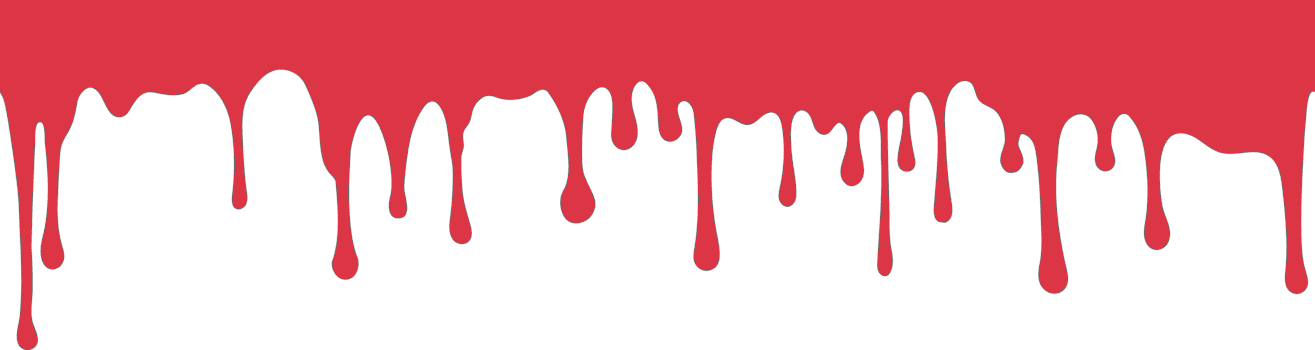
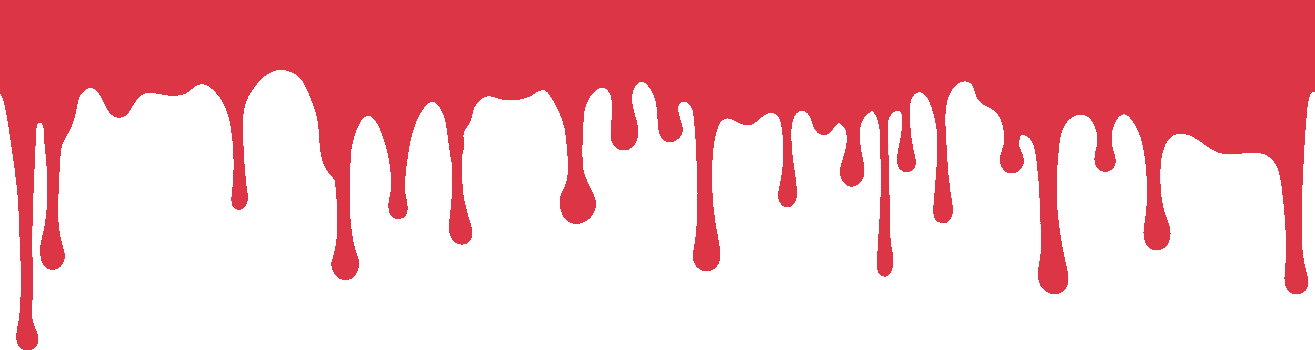
#

diff --git a/services.html b/services.html
@@ -23,6 +23,7 @@
                     <li class="nav-item"><a class="nav-link" href="index.html">Home</a></li>
                     <li class="nav-item"><a class="nav-link active" href="services.html">Movies</a></li>
                     <li class="nav-item"><a class="nav-link" href="aboutus.html">About Us</a></li>
+                    <li class="nav-item"><a class="nav-link" href="contact.html">Contact</a></li>
                 </ul>
             </div>
         </div>
@@ -65,7 +66,7 @@
 
                     <div class="col-12 col-sm-6">
                         <div class="card mb-4 w-100">
-                            <img src="images/movie6.png" class="card-img-top" alt="Longlegs" style="height: 600px;">
+                            <img src="images/movie6.png" class="card-img-top" alt="Longlegs" style="height: 800px">
                             <div class="card-body d-flex flex-column">
                                 <h5 class="card-title">M3GAN</h5>
                                 <p class="card-text flex-grow-1">A chilling, atmospheric thriller where an FBI agent
@@ -81,7 +82,7 @@
 
                     <div class="col-12 col-sm-6">
                         <div class="card mb-4 w-100">
-                            <img src="images/movie5.png" class="card-img-top" alt="Longlegs" style="height: 600px;">
+                            <img src="images/movie5.png" class="card-img-top" alt="Longlegs" style="height: 800px;">
                             <div class="card-body d-flex flex-column">
                                 <h5 class="card-title">Hereditary</h5>
                                 <p class="card-text flex-grow-1">Michael Myers escapes confinement to face Laurie Strode
@@ -97,7 +98,7 @@
 
                     <div class="col-12 col-sm-6">
                         <div class="card mb-4 w-100">
-                            <img src="images/image3.png" class="card-img-top" alt="Longlegs" style="height: 600px;">
+                            <img src="images/image3.png" class="card-img-top" alt="Longlegs" style="height: 800px;">
                             <div class="card-body d-flex flex-column">
                                 <h5 class="card-title">Scream VI</h5>
                                 <p class="card-text flex-grow-1">In 17th-century New England, a banished Puritan family
@@ -113,7 +114,7 @@
 
                     <div class="col-12 col-sm-6">
                         <div class="card mb-4 w-100">
-                            <img src="images/movie4.png" class="card-img-top" alt="Longlegs" style="height: 600px;">
+                            <img src="images/movie4.png" class="card-img-top" alt="Longlegs" style="height: 800px;">
                             <div class="card-body d-flex flex-column">
                                 <h5 class="card-title">Project Hail Mary</h5>
                                 <p class="card-text flex-grow-1">A lone astronaut awakens on a spaceship with amnesia,
@@ -128,7 +129,7 @@
                     </div>
                     <div class="col-12 col-sm-6">
                         <div class="card mb-4 w-100">
-                            <img src="images/movie1.png" class="card-img-top" alt="Longlegs" style="height: 600px;">
+                            <img src="images/movie1.png" class="card-img-top" alt="Longlegs" style="height: 800px;">
                             <div class="card-body d-flex flex-column">
                                 <h5 class="card-title">Longlegs</h5>
                                 <p class="card-text flex-grow-1">A chilling, atmospheric thriller where an FBI agent
@@ -144,7 +145,7 @@
 
                     <div class="col-12 col-sm-6">
                         <div class="card mb-4 w-100">
-                            <img src="images/movie3.png" class="card-img-top" alt="Longlegs" style="height: 600px;">
+                            <img src="images/movie3.png" class="card-img-top" alt="Longlegs" style="height: 800px;">
                             <div class="card-body d-flex flex-column">
                                 <h5 class="card-title">Halloween (2018)</h5>
                                 <p class="card-text flex-grow-1">Michael Myers escapes confinement to face Laurie Strode
@@ -160,7 +161,7 @@
 
                     <div class="col-12 col-sm-6">
                         <div class="card mb-4 w-100">
-                            <img src="images/movie2.png" class="card-img-top" alt="Longlegs" style="height: 600px;">
+                            <img src="images/movie2.png" class="card-img-top" alt="Longlegs" style="height: 800px;">
                             <div class="card-body d-flex flex-column">
                                 <h5 class="card-title">The Witch</h5>
                                 <p class="card-text flex-grow-1">In 17th-century New England, a banished Puritan family
@@ -176,7 +177,7 @@
 
                     <div class="col-12 col-sm-6">
                         <div class="card mb-4 w-100">
-                            <img src="images/movie4.png" class="card-img-top" alt="Longlegs" style="height: 600px;">
+                            <img src="images/movie4.png" class="card-img-top" alt="Longlegs" style="height: 800px;">
                             <div class="card-body d-flex flex-column">
                                 <h5 class="card-title">Project Hail Mary</h5>
                                 <p class="card-text flex-grow-1">A lone astronaut awakens on a spaceship with amnesia,
@@ -191,7 +192,7 @@
                     </div>
                     <div class="col-12 col-sm-6">
                         <div class="card mb-4 w-100">
-                            <img src="images/movie1.png" class="card-img-top" alt="Longlegs" style="height: 600px;">
+                            <img src="images/movie1.png" class="card-img-top" alt="Longlegs" style="height: 800px;">
                             <div class="card-body d-flex flex-column">
                                 <h5 class="card-title">Longlegs</h5>
                                 <p class="card-text flex-grow-1">A chilling, atmospheric thriller where an FBI agent
@@ -207,7 +208,7 @@
 
                     <div class="col-12 col-sm-6">
                         <div class="card mb-4 w-100">
-                            <img src="images/movie3.png" class="card-img-top" alt="Longlegs" style="height: 600px;">
+                            <img src="images/movie3.png" class="card-img-top" alt="Longlegs" style="height: 800px;">
                             <div class="card-body d-flex flex-column">
                                 <h5 class="card-title">Halloween (2018)</h5>
                                 <p class="card-text flex-grow-1">Michael Myers escapes confinement to face Laurie Strode
@@ -223,7 +224,7 @@
 
                     <div class="col-12 col-sm-6">
                         <div class="card mb-4 w-100">
-                            <img src="images/movie2.png" class="card-img-top" alt="Longlegs" style="height: 600px;">
+                            <img src="images/movie2.png" class="card-img-top" alt="Longlegs" style="height: 800px;">
                             <div class="card-body d-flex flex-column">
                                 <h5 class="card-title">The Witch</h5>
                                 <p class="card-text flex-grow-1">In 17th-century New England, a banished Puritan family
@@ -239,7 +240,7 @@
 
                     <div class="col-12 col-sm-6">
                         <div class="card mb-4 w-100">
-                            <img src="images/movie4.png" class="card-img-top" alt="Longlegs" style="height: 600px;">
+                            <img src="images/movie4.png" class="card-img-top" alt="Longlegs" style="height: 800px;">
                             <div class="card-body d-flex flex-column">
                                 <h5 class="card-title">Project Hail Mary</h5>
                                 <p class="card-text flex-grow-1">A lone astronaut awakens on a spaceship with amnesia,

diff --git a/contact.html b/contact.html
@@ -1,0 +1,90 @@
+<!DOCTYPE html>
+<html lang="en">
+
+<head>
+    <meta charset="UTF-8">
+    <meta name="viewport" content="width=device-width, initial-scale=1.0">
+    <title>CineList - Boostrap Project</title>
+    <link href="https://cdn.jsdelivr.net/npm/bootstrap@5.3.3/dist/css/bootstrap.min.css" rel="stylesheet">
+    <link rel="stylesheet" href="https://cdn.jsdelivr.net/npm/bootstrap-icons@1.11.3/font/bootstrap-icons.min.css">
+    <link rel="stylesheet" href="styles/styles.css">
+    <link rel="icon" href="images/icon.png">
+</head>
+
+<body>
+    <nav class="navbar navbar-expand-lg navbar-dark bg-danger">
+        <div class="container-fluid">
+            <a class="navbar-brand" href="#"><i class="bi bi-film"></i> CineList</a>
+            <button class="navbar-toggler" type="button" data-bs-toggle="collapse" data-bs-target="#navbarNav">
+                <span class="navbar-toggler-icon"></span>
+            </button>
+            <div class="collapse navbar-collapse" id="navbarNav">
+                <ul class="navbar-nav ms-auto">
+                    <li class="nav-item"><a class="nav-link" href="index.html">Home</a></li>
+                    <li class="nav-item"><a class="nav-link" href="services.html">Movies</a></li>
+                    <li class="nav-item"><a class="nav-link" href="aboutus.html">About Us</a></li>
+                    <li class="nav-item"><a class="nav-link active" href="contact.html">Contact</a></li>
+                </ul>
+            </div>
+        </div>
+    </nav>
+
+    <div class="container mt-3">
+        <h3 style="color: white; margin-bottom: 40px; text-align: center;">Contato</h3>
+        <form class="row g-3 justify-content-center">
+            <div class="col-md-6 col-sm-12">
+                <div class="form-floating">
+                    <input type="text" name="name" id="name" class="form-control" placeholder="Full name" required>
+                    <label for="name">Full name</label>
+                </div>
+            </div>
+            <div class="col-md-4 col-sm-12">
+                <div class="form-floating">
+                    <input type="text" name="password" id="password" class="form-control" placeholder="password">
+                    <label for="name">Password</label>
+                </div>
+            </div>
+            <div class="col-md-5 col-sm-12">
+                <div class="form-floating">
+                    <input type="date" name="data" id="data" class="form-control" placeholder="data" required>
+                    <label for="name">Date of Birth</label>
+                </div>
+            </div>
+            <div class="col-md-5 col-sm-12">
+                <div class="form-floating">
+                    <select name="category" id="category" class="form-select">
+                        <option value="" selected disabled>Select</option>
+                        <option value="movie_enthusiast">Auteurist Critic</option>
+                        <option value="movie_enthusiast">Movie Enthusiast</option>
+                        <option value="movie_enthusiast">Genre Specialist</option>
+                        <option value="movie_enthusiast">Movie Curator</option>
+                    </select>
+                </div>
+            </div>
+            <div class="col-md-10 col-sm-12">
+                <label class="form-label d-block">Type</label>
+                <div class="form-check form-check-inline">
+                    <input type="radio" name="type" id="aluno" class="form-check-input" required>
+                    <label for="aluno" class="form-check-label">Student</label>
+                </div>
+                <div class="form-check form-check-inline">
+                    <input type="radio" name="type" id="professor" class="form-check-input">
+                    <label for="professor" class="form-check-label">Professor</label>
+                </div>
+            </div>
+            <div class="col-md-10 col-sm-12">
+                <div class="form-check">
+                    <input type="checkbox" name="terms" id="terms" class="form-check-input" required>
+                    <label for="terms">I read and accept the terms.</label>
+                </div>
+            </div>
+            <div class="col-md-10 col-sm-12">
+                <button type="submit" class="btn btn-success col-sm-12">Submit</button>
+            </div>
+        </form>
+    </div>
+
+    <script src="https://cdn.jsdelivr.net/npm/bootstrap@5.3.3/dist/js/bootstrap.bundle.min.js"></script>
+</body>
+
+</html>

diff --git a/aboutus.html b/aboutus.html
@@ -23,6 +23,7 @@
                     <li class="nav-item"><a class="nav-link" href="index.html">Home</a></li>
                     <li class="nav-item"><a class="nav-link" href="services.html">Movies</a></li>
                     <li class="nav-item"><a class="nav-link active" href="aboutus.html">About Us</a></li>
+                    <li class="nav-item"><a class="nav-link" href="contact.html">Contact</a></li>
                 </ul>
             </div>
         </div>

diff --git a/index.html b/index.html
@@ -23,6 +23,7 @@
                     <li class="nav-item"><a class="nav-link active" href="index.html">Home</a></li>
                     <li class="nav-item"><a class="nav-link" href="services.html">Movies</a></li>
                     <li class="nav-item"><a class="nav-link" href="aboutus.html">About Us</a></li>
+                    <li class="nav-item"><a class="nav-link" href="contact.html">Contact</a></li>
                 </ul>
             </div>
         </div>

diff --git a/styles/styles.css b/styles/styles.css
@@ -4,5 +4,5 @@ body {
     background-color: #f8d7da;
     background-image: url(../images/dripping.png);
     background-repeat: no-repeat;
-    background-size: 100% 700px;
+    background-size: 100% 600px;
 }
